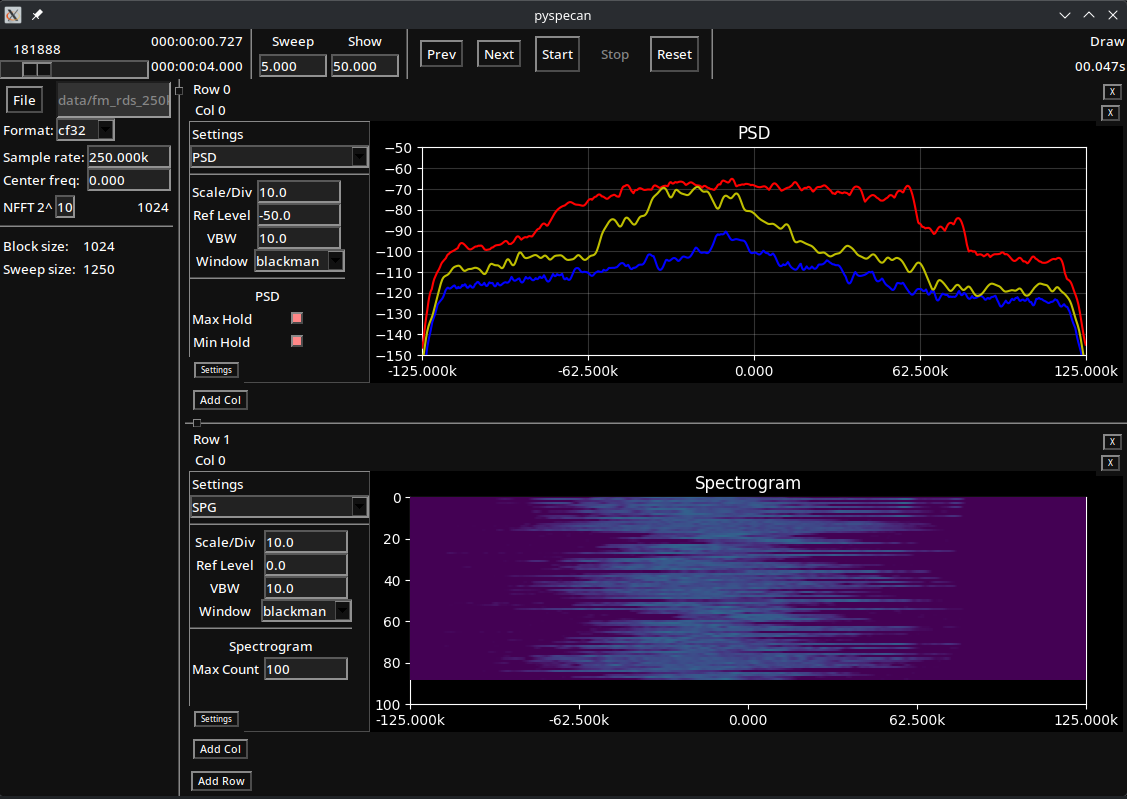
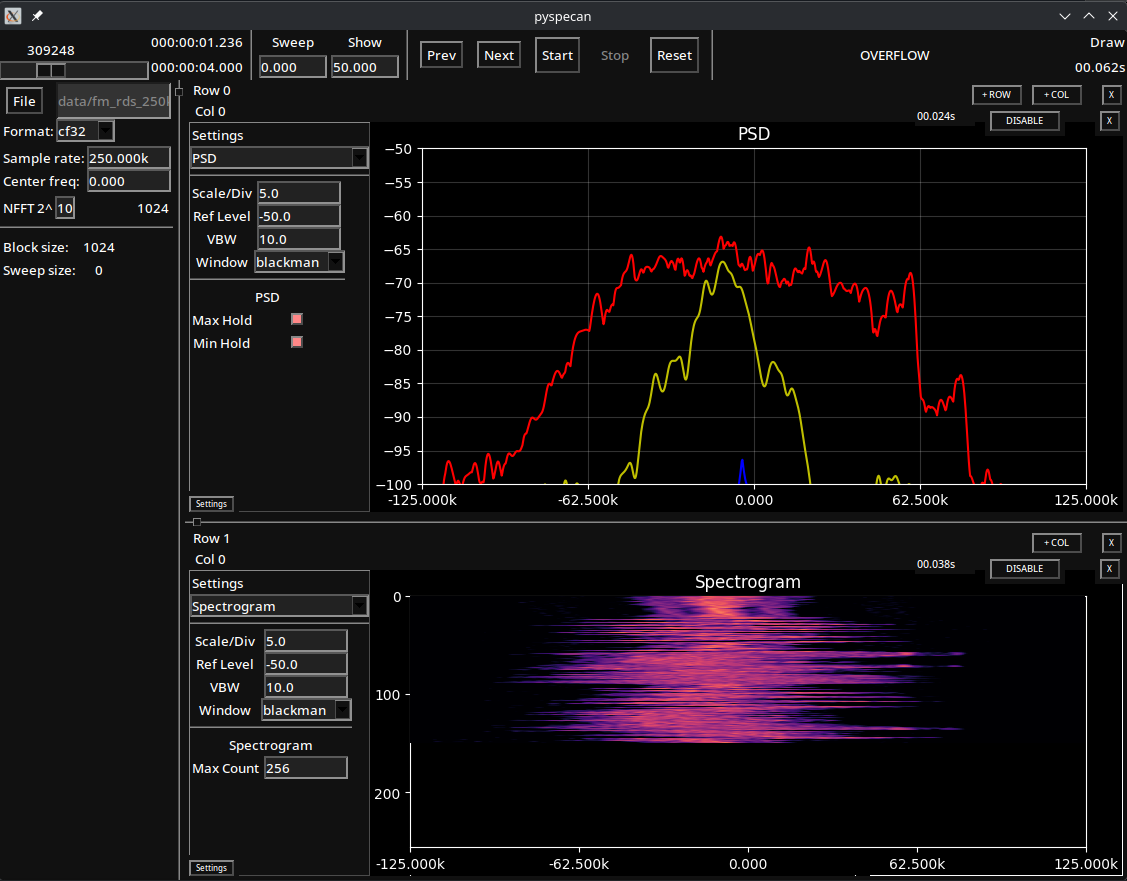
Make SPG measure between 0 and 1 Update README images

diff --git a/src/pyspecan/controller/tkGUI/rt/spg.py b/src/pyspecan/controller/tkGUI/rt/spg.py
@@ -64,8 +64,11 @@ class SPG(FreqPlotControllerRT):
 
     def _plot(self, samps):
         psd = self.psd(samps)
+        psd = np.sum(psd, axis=1) / psd.shape[1]
         psd = np.clip(psd, self.y_btm, self.y_top)
-        psd = np.sum(psd, axis=1) / samps.shape[0]
+        y_rng = abs(self.y_btm - self.y_top)
+        psd += (0 - self.y_btm)
+        psd = psd / y_rng
 
         self.plotter.ax("spg").ax.set_title("Spectrogram")
         self.psds = np.roll(self.psds, 1, axis=0)
@@ -74,6 +77,7 @@ class SPG(FreqPlotControllerRT):
         im = self.plotter.ax("spg").imshow(
             self.psds, name="spg",
             aspect="auto", origin="upper", cmap="magma",
+            vmin=0.0, vmax=1.0,
             interpolation="nearest", resample=False, rasterized=True
         )
         self.update()

diff --git a/src/pyspecan/controller/tkGUI/swept/spg.py b/src/pyspecan/controller/tkGUI/swept/spg.py
@@ -66,12 +66,17 @@ class SPG(FreqPlotController):
         psd = self.psd(samps)
         self.plotter.ax("spg").ax.set_title("Spectrogram")
         psd = np.clip(psd, self.y_btm, self.y_top)
+        y_rng = abs(self.y_btm - self.y_top)
+        psd += (0 - self.y_btm)
+        psd = psd / y_rng
+
         self.psds = np.roll(self.psds, 1, axis=0)
         self.psds[0,:] = psd
         # print(self.psds.shape)
         im = self.plotter.ax("spg").imshow(
             self.psds, name="spg",
             aspect="auto", origin="upper", cmap="magma",
+            vmin=0.0, vmax=1.0,
             interpolation="nearest", resample=False, rasterized=True
         )
         self.update()

diff --git a/README.md b/README.md
@@ -7,9 +7,11 @@
 # Examples
 tkGUI, SWEPT mode
 ![tkGUI_Swept](/media/SWEPT_tkGUI.png)
+![tkGUI_Swept](/media/SWEPT_tkGUI2.png)
 
 tkGUI, RT mode
 ![tkGUI_RT](/media/RT_tkGUI.png)
+![tkGUI_RT](/media/RT_tkGUI2.png)
 
 # Usage
 ## Module
